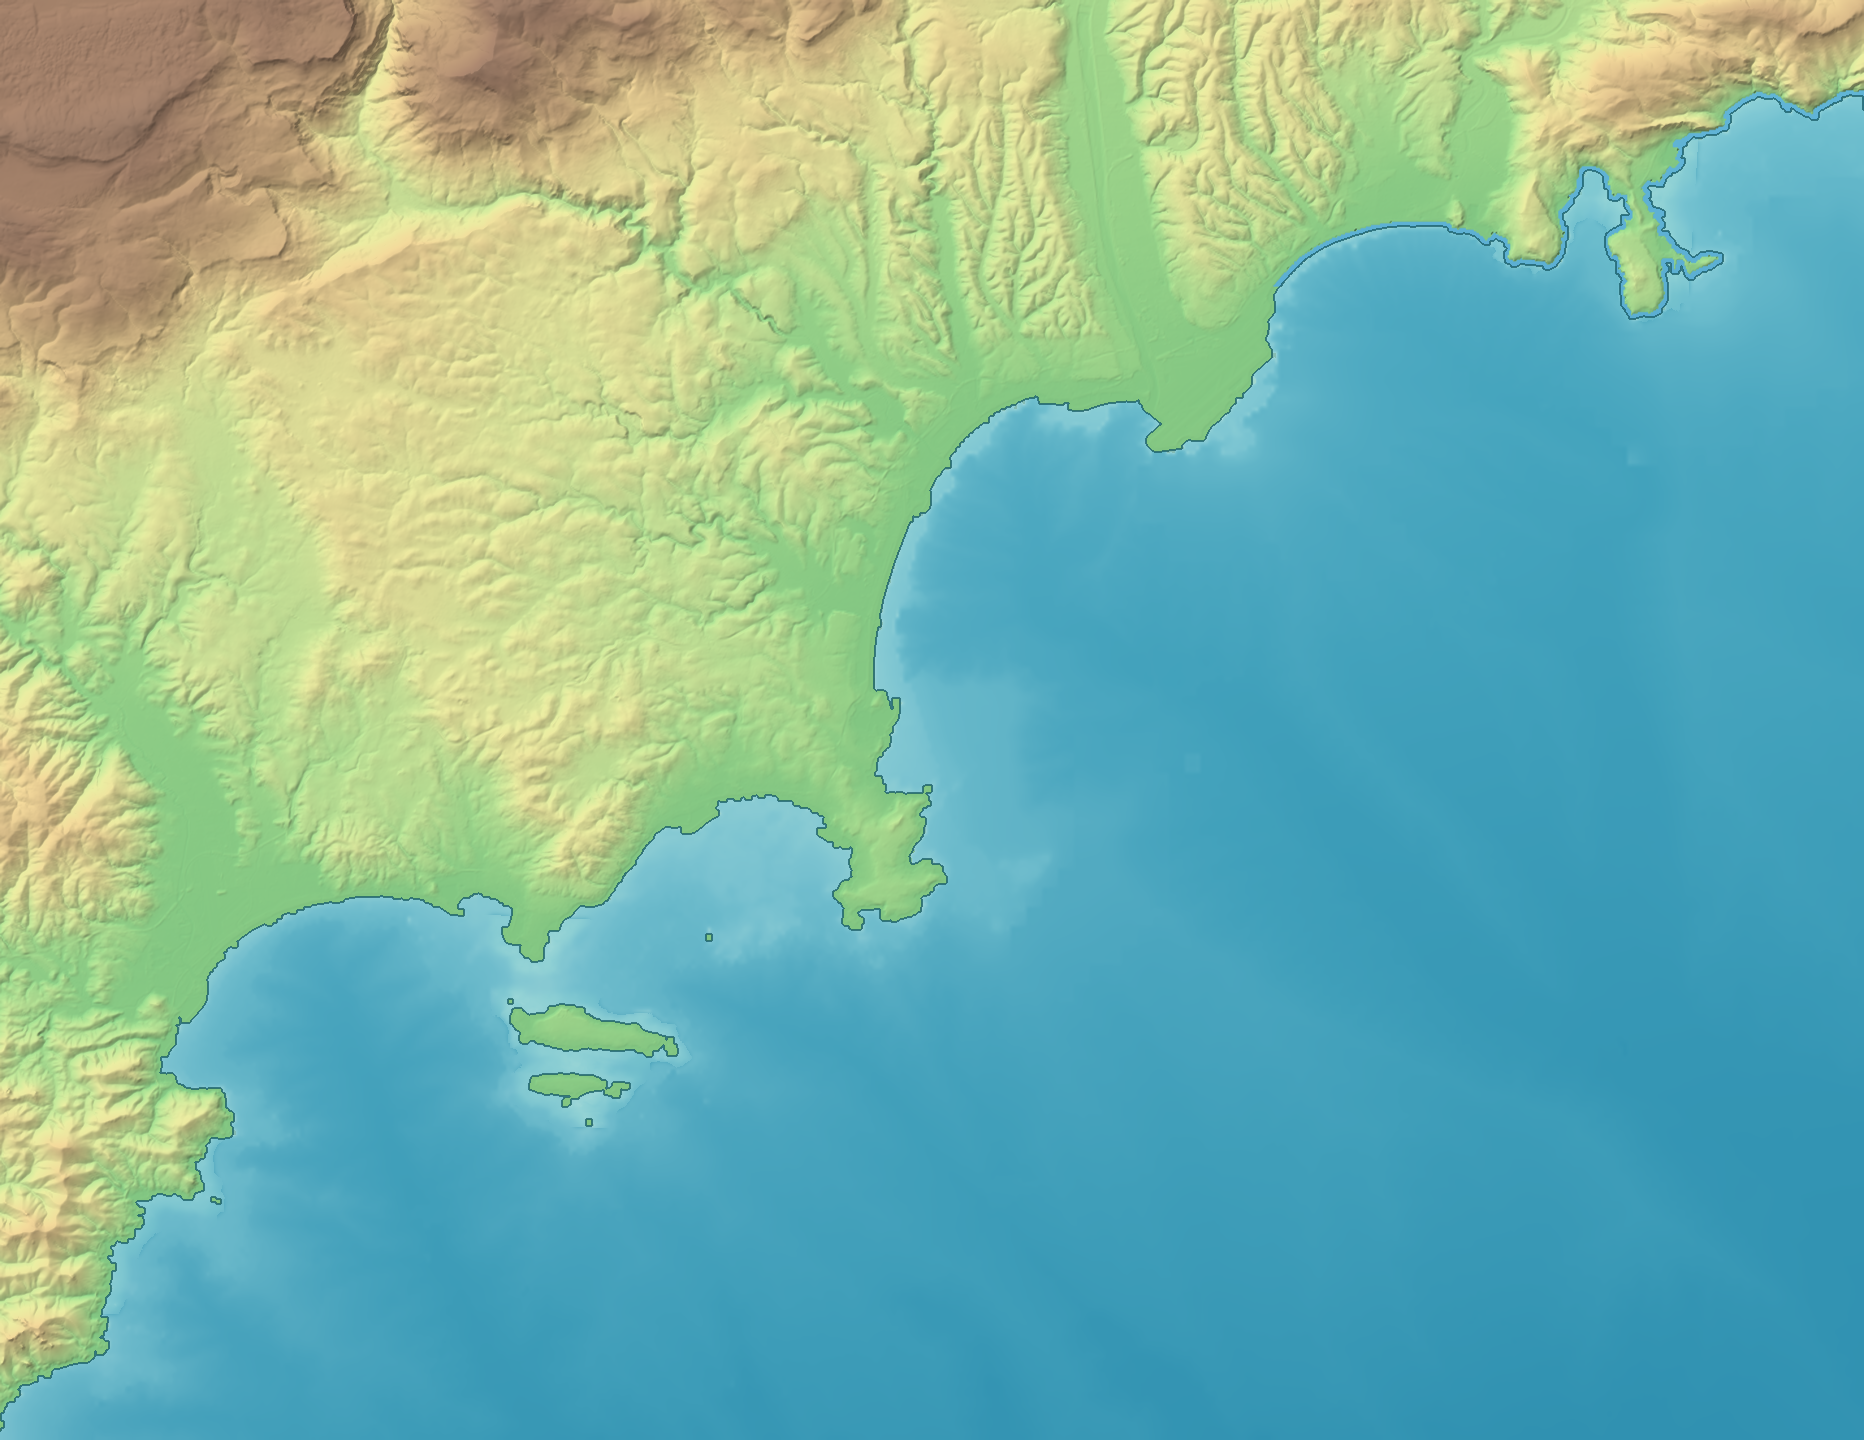
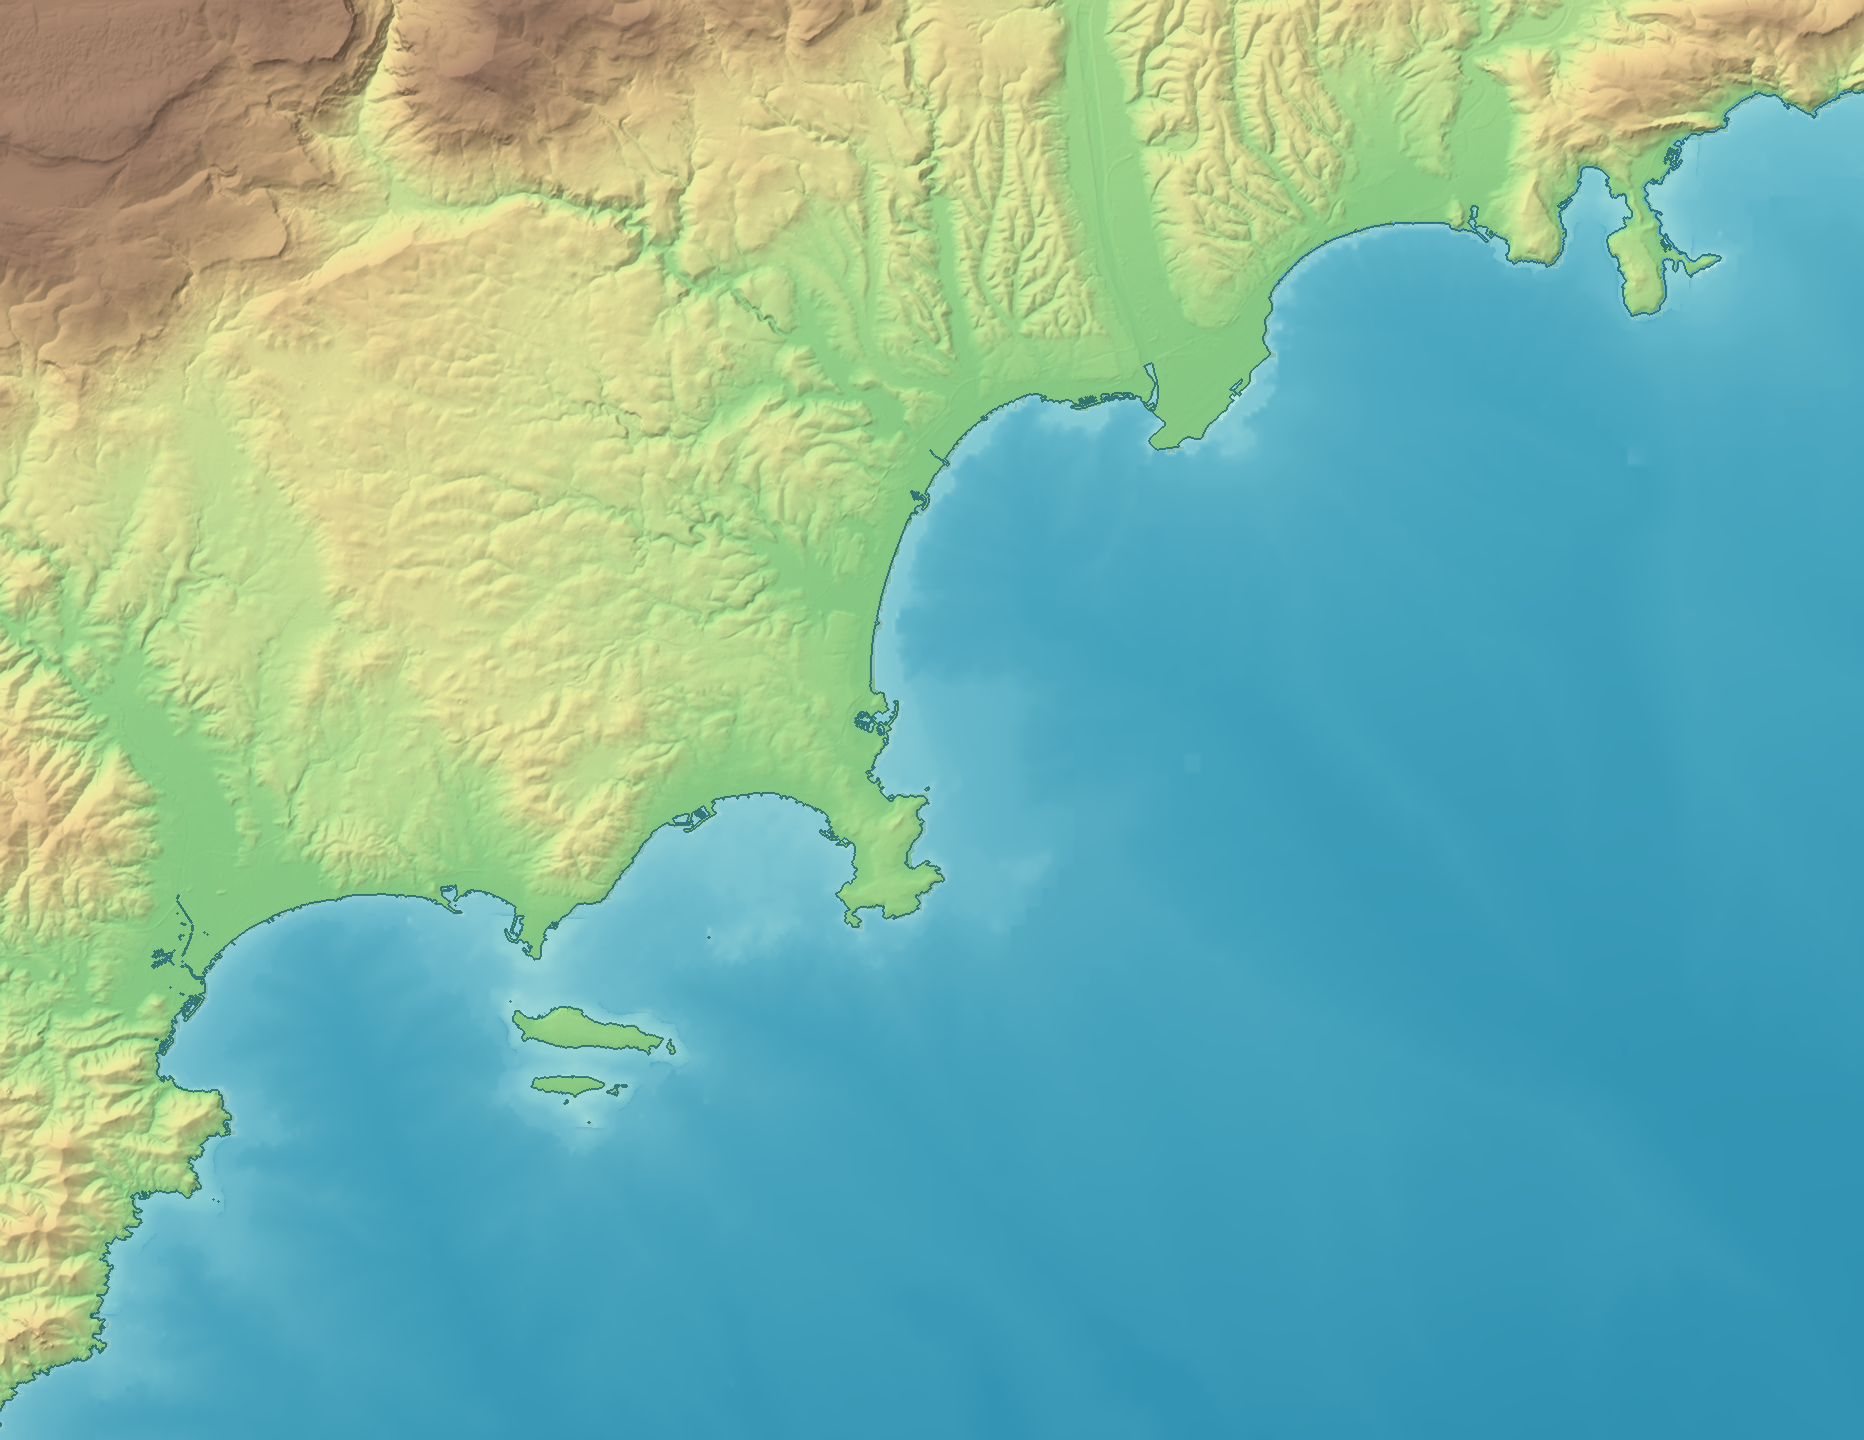
Update Alpes-Maritimes polygon relief map

diff --git a/regions/alpes-maritimes/QA-v1.4-wave-1.md b/regions/alpes-maritimes/QA-v1.4-wave-1.md
@@ -74,9 +74,11 @@ Full-resolution inspection found additional publication blockers:
 
 ## Regional relief map QA
 
-The regional relief builder was run with the existing project environment and
-official cached sources after integrating the shared builder fixes. The final
-asset is an RGB PNG measuring `1864 × 1440` pixels, with bounds:
+The regional relief builder was run without `--refresh` in the existing project
+environment after integrating the shared polygon builder. Existing official
+source caches were reused and the previously absent official Shom–IGN polygon
+layer was fetched once. The final asset is an RGB PNG measuring `1864 × 1440`
+pixels, with bounds:
 
 - west: `6.896198253587896`
 - south: `43.43069725776767`
@@ -84,12 +86,15 @@ asset is an RGB PNG measuring `1864 × 1440` pixels, with bounds:
 - north: `43.74269725776767`
 
 The canonical output and its Web derivative are byte-identical, with SHA-256
[2 lines of base64/hex data omitted]
 The final build reports 67 Litto3D MNT5 tiles from three official archives and
-a Limite terre-mer mask differing from the Natural Earth topology guard by
-`0.007`. Full-resolution inspection found a coherent coastline and relief from
-Théoule, Cannes and Lérins through Antibes, Nice and Villefranche, without a
-surviving implausible large SLCONS polygon offshore.
+an official Limite terre-mer polygon mask containing 647 features and 831,995
+vertices. Its land area is `0.428`, with a difference below `0.001` from the
+Natural Earth sanity guard. Full-resolution comparison with the earlier
+line-flood map found a coherent and more detailed coastline and relief from
+Théoule, Cannes and Lérins through Antibes, Nice and Villefranche. Lérins and
+Cap-Ferrat remain continuous, small official harbour structures are retained,
+and no implausible large SLCONS closure or terrestrial wedge survives offshore.
 
 All five draft positions were projected against the generated bounds and
 inspected on a temporary QA overlay that is not part of the committed output:
